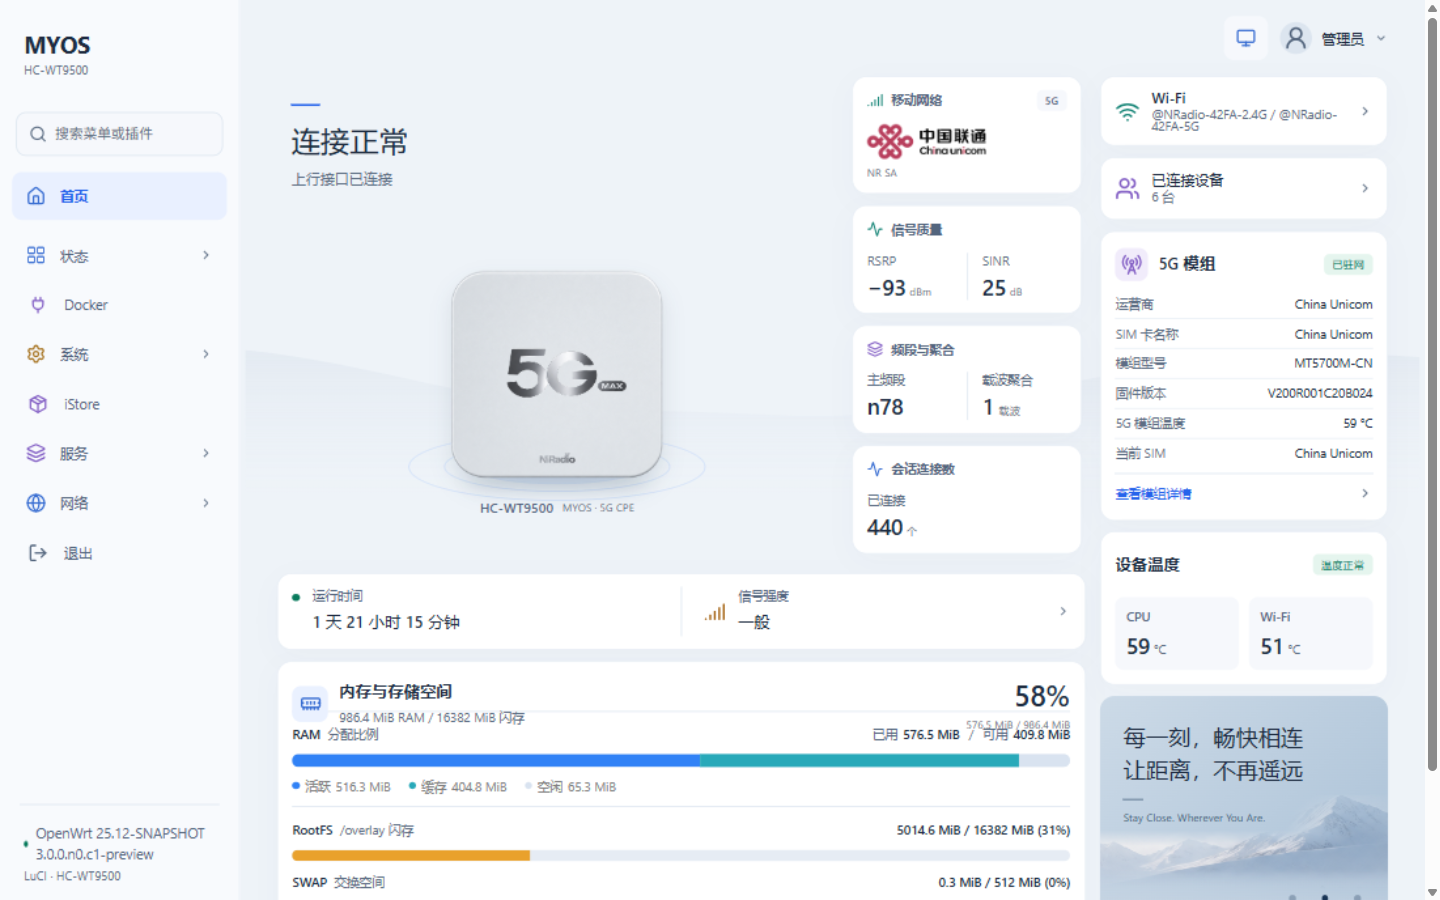
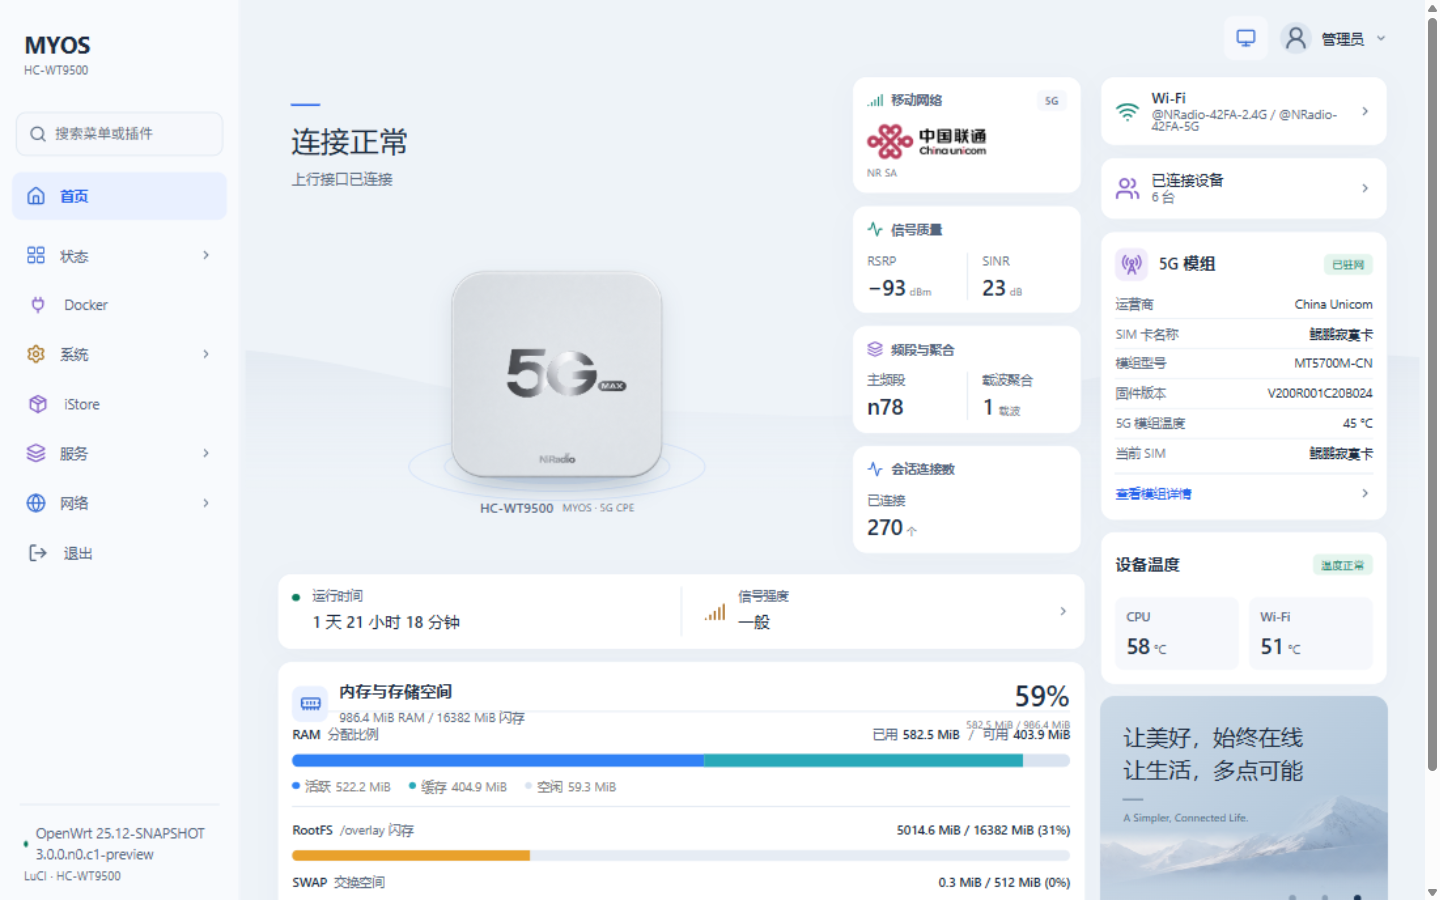
feat(myos): SIM 信息对齐官方 + 首页自动刷新
- SIM: sim_name 取官方 cpestatus 的 sim_name(鲲鹏寂寞卡),
  槽位 simno→external1/external2/internal, 补齐 ICCID/流量字段
- 模组温度改用官方 model_temp(模组上报), 与整机 device_temp 区分
- 新增 ?state=1 JSON 端点, 首页每 10s 拉取并 update(对齐上游 poll 10s)
- 数据装配抽成 build_state(), 页面与端点共用同一套适配逻辑

diff --git a/files/overlay/nradio-apps/openwrt-luci-8080/usr/lib/lua/luci/view/admin_status/myos_ui.htm b/files/overlay/nradio-apps/openwrt-luci-8080/usr/lib/lua/luci/view/admin_status/myos_ui.htm
@@ -2,133 +2,158 @@
  MYOS 仪表盘首页 — manper 移植版
  上游: 561410590/immortalwrt-by-MYOS :: luci-theme-c2000max-ui
    dashboard.html (DOM 片段) + dashboard.js (C2000Dashboard.mount/update)
- 差异: 原版由 ucode + rpcd(c2000max.ui/qmodem) 供数;此处用 Lua + ubus 供数,
-       模组/SIM/温度等需厂商服务的适配项留空,卡片显示 "—"(模板自身设计)。
+
+ 数据: 原版走 rpcd c2000max.ui / qmodem;本机改用厂商 ubus 适配:
+   infocd cpestatus  → 模组(RSRP/SINR/频段/运营商/SIM/温度/型号/固件)
+   infocd runtime    → 整机温度 / CPU / 内存
+   network.interface → 上行接口
+   UCI wireless      → SSID(本机无 network.wireless ubus 对象)
+   /proc/net/arp     → 在线设备数
+ 自动刷新: 同一模板带 ?state=1 时只输出 JSON,前端每 10s 拉取并 update。
 -%>
-<%+header%>
 <%
 	local fs    = require "nixio.fs"
 	local util  = require "luci.util"
 	local jsonc = require "luci.jsonc"
 	local sys   = require "luci.sys"
+	local http  = require "luci.http"
 
-	local boardinfo = util.ubus("system", "board") or {}
 	local APP = "/overlay/nradio-apps/openwrt-luci-8080"
+	local boardinfo = util.ubus("system", "board") or {}
+
+	-- ==================== 数据装配 ====================
+	local function build_state()
+		local state = {}
+		local ok_sys, sysinfo = pcall(util.ubus, "system", "info")
+		state.system = (ok_sys and sysinfo) or {}
+		local ok_net, netdump = pcall(util.ubus, "network.interface", "dump")
+		state.network = (ok_net and netdump) or {}
+
+		-- 无线: 本固件无 network.wireless ubus 对象, 从 UCI 合成
+		local uci = require "luci.model.uci".cursor()
+		local wireless = {}
+		uci:foreach("wireless", "wifi-device", function(dev)
+			local rname = dev[".name"] or ""
+			local radio = { up = (dev.disabled ~= "1"), interfaces = {} }
+			uci:foreach("wireless", "wifi-iface", function(ifc)
+				if ifc.device == rname then
+					radio.interfaces[#radio.interfaces + 1] = {
+						config = { ssid = ifc.ssid, disabled = ifc.disabled }
+					}
+				end
+			end)
+			wireless[rname] = radio
+		end)
+		state.wireless = wireless
+
+		local cnt = fs.readfile("/proc/sys/net/netfilter/nf_conntrack_count")
+		state.sessions = { count = cnt and (cnt:gsub("%s", "")) or nil }
+
+		-- 在线设备: ARP 表有效 MAC 去重
+		local seen, clients = {}, 0
+		for _, l in ipairs(util.split(sys.exec("cat /proc/net/arp 2>/dev/null") or "")) do
+			local mac = l:match("%s+0x%x+%s+0x%x+%s+([0-9a-fA-F:]+)%s")
+			if mac and mac ~= "00:00:00:00:00:00" and not seen[mac:lower()] then
+				seen[mac:lower()] = true
+				clients = clients + 1
+			end
+		end
+		state.clients = { available = true, count = clients }
+
+		-- 厂商接口
+		local function ubus_call(obj, method, args)
+			local cmd = "ubus call " .. obj .. " " .. method
+			if args then cmd = cmd .. " '" .. args .. "'" end
+			local raw = sys.exec(cmd .. " 2>/dev/null") or ""
+			local ok, data = pcall(jsonc.parse, raw)
+			return (ok and type(data) == "table") and data or nil
+		end
+
+		local cell
+		for _, slot in ipairs({ "1", "2" }) do
+			local r = ubus_call("infocd", "cpestatus", '{"name":"' .. slot .. '"}')
+			local st = r and r.result and r.result[1] and r.result[1].status
+			if st and st.rsrp and st.rsrp ~= "" then cell = st break end
+			cell = cell or st
+		end
+		local rt = ubus_call("infocd", "runtime")
+		local g = rt and rt.global or {}
+
+		state.identity = { model = boardinfo.model or "NRadio C2000" }
+
+		if cell then
+			local entries = {}
+			local function add(k, v)
+				if v ~= nil and v ~= "" then entries[#entries + 1] = { key = k, value = tostring(v) } end
+			end
+			add("network_mode", cell.mode)
+			add("rsrp", cell.rsrp)
+			add("sinr", cell.sinr)
+			add("rsrq", cell.rsrq)
+			add("band", cell.band)
+			add("NR_BAND", cell.band)
+			add("ISP", cell.isp_company)
+			add("MCC", (cell.imsi or ""):sub(1, 3))
+			add("MNC", (cell.imsi or ""):sub(4, 5))
+			add("PCI", cell.pci)
+			add("Cell ID", cell.cell)
+			-- 模组温度用官方 model_temp(模组上报), 非整机 device_temp
+			add("temperature", cell.model_temp or g.device_temp)
+			add("name", cell.model)
+			add("revision", cell.firmware or cell.revision)
+			state.modemBase = { entries = entries, receivedAt = os.time() * 1000, section = "1" }
+
+			local slot_key = "internal"
+			if tostring(cell.simno) == "1" then slot_key = "external1"
+			elseif tostring(cell.simno) == "2" then slot_key = "external2" end
+			state.sim = {
+				carrier = cell.sim_company or cell.isp_company,
+				sim_label = cell.sim_name,
+				sim_name = cell.sim_name,
+				current_slot = slot_key,
+				slot = tonumber(cell.simno),
+				iccid = cell.iccid,
+				flow_total = tonumber(cell.sim_flow),
+				flow_month = tonumber(cell.sim_mon),
+			}
+		end
+
+		-- 整机温度(设备温度卡)
+		local sensors = {}
+		if tonumber(g.device_temp) then
+			sensors.cpu_sensor = true
+			sensors.cpu_temp = tonumber(g.device_temp) * 1000
+		end
+		if tonumber(g.wifi_temp) then
+			sensors.wifi_temps = { { milli_c = tonumber(g.wifi_temp) * 1000 } }
+		end
+		if not sensors.cpu_sensor then
+			local cput = fs.readfile("/sys/class/thermal/thermal_zone0/temp")
+			if cput then
+				local mv = tonumber(cput) or 0
+				sensors.cpu_sensor = true
+				sensors.cpu_temp = mv > 1000 and mv or mv * 1000
+			end
+		end
+		state.sensors = sensors
+
+		return state
+	end
+
+	local state = build_state()
+
+	-- ==================== JSON 轮询端点 ====================
+	if http.formvalue("state") == "1" then
+		http.prepare_content("application/json")
+		http.write(jsonc.stringify(state))
+		return
+	end
+-%>
+<%+header%>
+<%
 	local raw = fs.readfile(APP .. "/www/luci-static/c2000max-ui/dashboard.html") or ""
-	-- 相对资源改绝对路径(原版 max.js 在客户端做同样处理)
 	raw = raw:gsub('src="assets/', 'src="/luci-static/c2000max-ui/assets/')
 	write('<div class="c2000-dashboard-root">' .. raw .. '</div>')
-
-	-- 数据装配(Lua 侧, 对应 max.js 的 rpc 调用)
-	local state = {}
-	local ok_sys, sysinfo = pcall(util.ubus, "system", "info")
-	state.system = (ok_sys and sysinfo) or {}
-	local ok_net, netdump = pcall(util.ubus, "network.interface", "dump")
-	state.network = (ok_net and netdump) or {}
-
-	-- 无线: 本固件无 network.wireless ubus 对象, 从 UCI 合成 data.js 期望的形状
-	-- { radioX: { up=true, interfaces=[{ config={ ssid=... } }] } }
-	local uci = require "luci.model.uci".cursor()
-	local wireless = {}
-	uci:foreach("wireless", "wifi-device", function(dev)
-		local rname = dev[".name"] or ""
-		local radio = { up = (dev.disabled ~= "1"), interfaces = {} }
-		uci:foreach("wireless", "wifi-iface", function(ifc)
-			if ifc.device == rname then
-				radio.interfaces[#radio.interfaces + 1] = {
-					config = { ssid = ifc.ssid, disabled = ifc.disabled }
-				}
-			end
-		end)
-		wireless[rname] = radio
-	end)
-	state.wireless = wireless
-
-	local cnt = fs.readfile("/proc/sys/net/netfilter/nf_conntrack_count")
-	state.sessions = { count = cnt and (cnt:gsub("%s", "")) or nil }
-
-	-- 已连接设备: ARP 表中有效 MAC 去重
-	local seen, clients = {}, 0
-	for _, l in ipairs(util.split(sys.exec("cat /proc/net/arp 2>/dev/null") or "")) do
-		local mac = l:match("%s+0x%x+%s+0x%x+%s+([0-9a-fA-F:]+)%s")
-		if mac and mac ~= "00:00:00:00:00:00" and not seen[mac:lower()] then
-			seen[mac:lower()] = true
-			clients = clients + 1
-		end
-	end
-	state.clients = { available = true, count = clients }
-
-	-- === 厂商数据适配层(infocd / atsdcpe), 对应上游 c2000max.ui + qmodem ===
-	local function ubus_call(obj, method, args)
-		local cmd = "ubus call " .. obj .. " " .. method
-		if args then cmd = cmd .. " '" .. args .. "'" end
-		local raw = sys.exec(cmd .. " 2>/dev/null") or ""
-		local ok, data = pcall(jsonc.parse, raw)
-		return (ok and type(data) == "table") and data or nil
-	end
-
-	-- 蜂窝状态(取第一个可用卡槽)
-	local cell
-	for _, slot in ipairs({ "1", "2" }) do
-		local r = ubus_call("infocd", "cpestatus", '{"name":"' .. slot .. '"}')
-		local st = r and r.result and r.result[1] and r.result[1].status
-		if st and st.rsrp and st.rsrp ~= "" then cell = st break end
-		cell = cell or (r and r.result and r.result[1] and r.result[1].status) or cell
-	end
-
-	-- 运行时: CPU/内存/温度
-	local rt = ubus_call("infocd", "runtime")
-	local g = rt and rt.global or {}
-
-	if cell then
-		local entries = {}
-		local function add(k, v) if v ~= nil and v ~= "" then entries[#entries + 1] = { key = k, value = tostring(v) } end end
-		add("network_mode", cell.mode)
-		add("rsrp", cell.rsrp)
-		add("sinr", cell.sinr)
-		add("rsrq", cell.rsrq)
-		add("band", cell.band)
-		add("NR_BAND", cell.band)
-		add("ISP", cell.isp_company)
-		add("MCC", (cell.imsi or ""):sub(1, 3))
-		add("MNC", (cell.imsi or ""):sub(4, 5))
-		add("PCI", cell.pci)
-		add("Cell ID", cell.cell)
-		add("temperature", g.device_temp)
-		-- 模组卡片: name→型号, revision→固件版本
-		add("name", cell.model)
-		add("revision", cell.firmware or cell.revision)
-		state.modemBase = { entries = entries, receivedAt = os.time() * 1000, section = "1" }
-		state.sim = {
-			carrier = cell.isp_company,
-			sim_label = cell.sim_company,
-			sim_name = cell.sim_company,
-		}
-		state.identity = { model = boardinfo.model or "NRadio C2000" }
-	else
-		state.identity = { model = boardinfo.model or "NRadio C2000" }
-	end
-	if g.device_temp then state.modem = { temperature = g.device_temp } end
-
-	-- 温度: 厂商 runtime 优先, 退回 thermal 区
-	local sensors = {}
-	if tonumber(g.device_temp) then
-		sensors.cpu_sensor = true
-		sensors.cpu_temp = tonumber(g.device_temp) * 1000
-	end
-	if tonumber(g.wifi_temp) then
-		sensors.wifi_temps = { { milli_c = tonumber(g.wifi_temp) * 1000 } }
-	end
-	if not sensors.cpu_sensor then
-		local cput = fs.readfile("/sys/class/thermal/thermal_zone0/temp")
-		if cput then
-			local mv = tonumber(cput) or 0
-			sensors.cpu_sensor = true
-			sensors.cpu_temp = mv > 1000 and mv or mv * 1000
-		end
-	end
-	state.sensors = sensors
-
 	write('<script>window.__MYOS_STATE__=' .. jsonc.stringify(state) .. ';</script>')
 %>
 <script>
@@ -141,6 +166,18 @@
 		return '/cgi-bin/luci/' + parts.join('/');
 	});
 	dashboard.update(window.__MYOS_STATE__ || {});
+
+	/* 每 10s 拉取一次状态(与上游 poll.add(refresh,10) 一致) */
+	var url = '/cgi-bin/luci/admin/status/details?state=1';
+	function refresh() {
+		if (document.hidden) return;
+		fetch(url, { credentials: 'same-origin', cache: 'no-store' })
+			.then(function (r) { return r.ok ? r.json() : null; })
+			.then(function (s) { if (s) dashboard.update(s); })
+			.catch(function () {});
+	}
+	setInterval(refresh, 10000);
+	document.addEventListener('visibilitychange', function () { if (!document.hidden) refresh(); });
 })();
 </script>
 <%+footer%>
